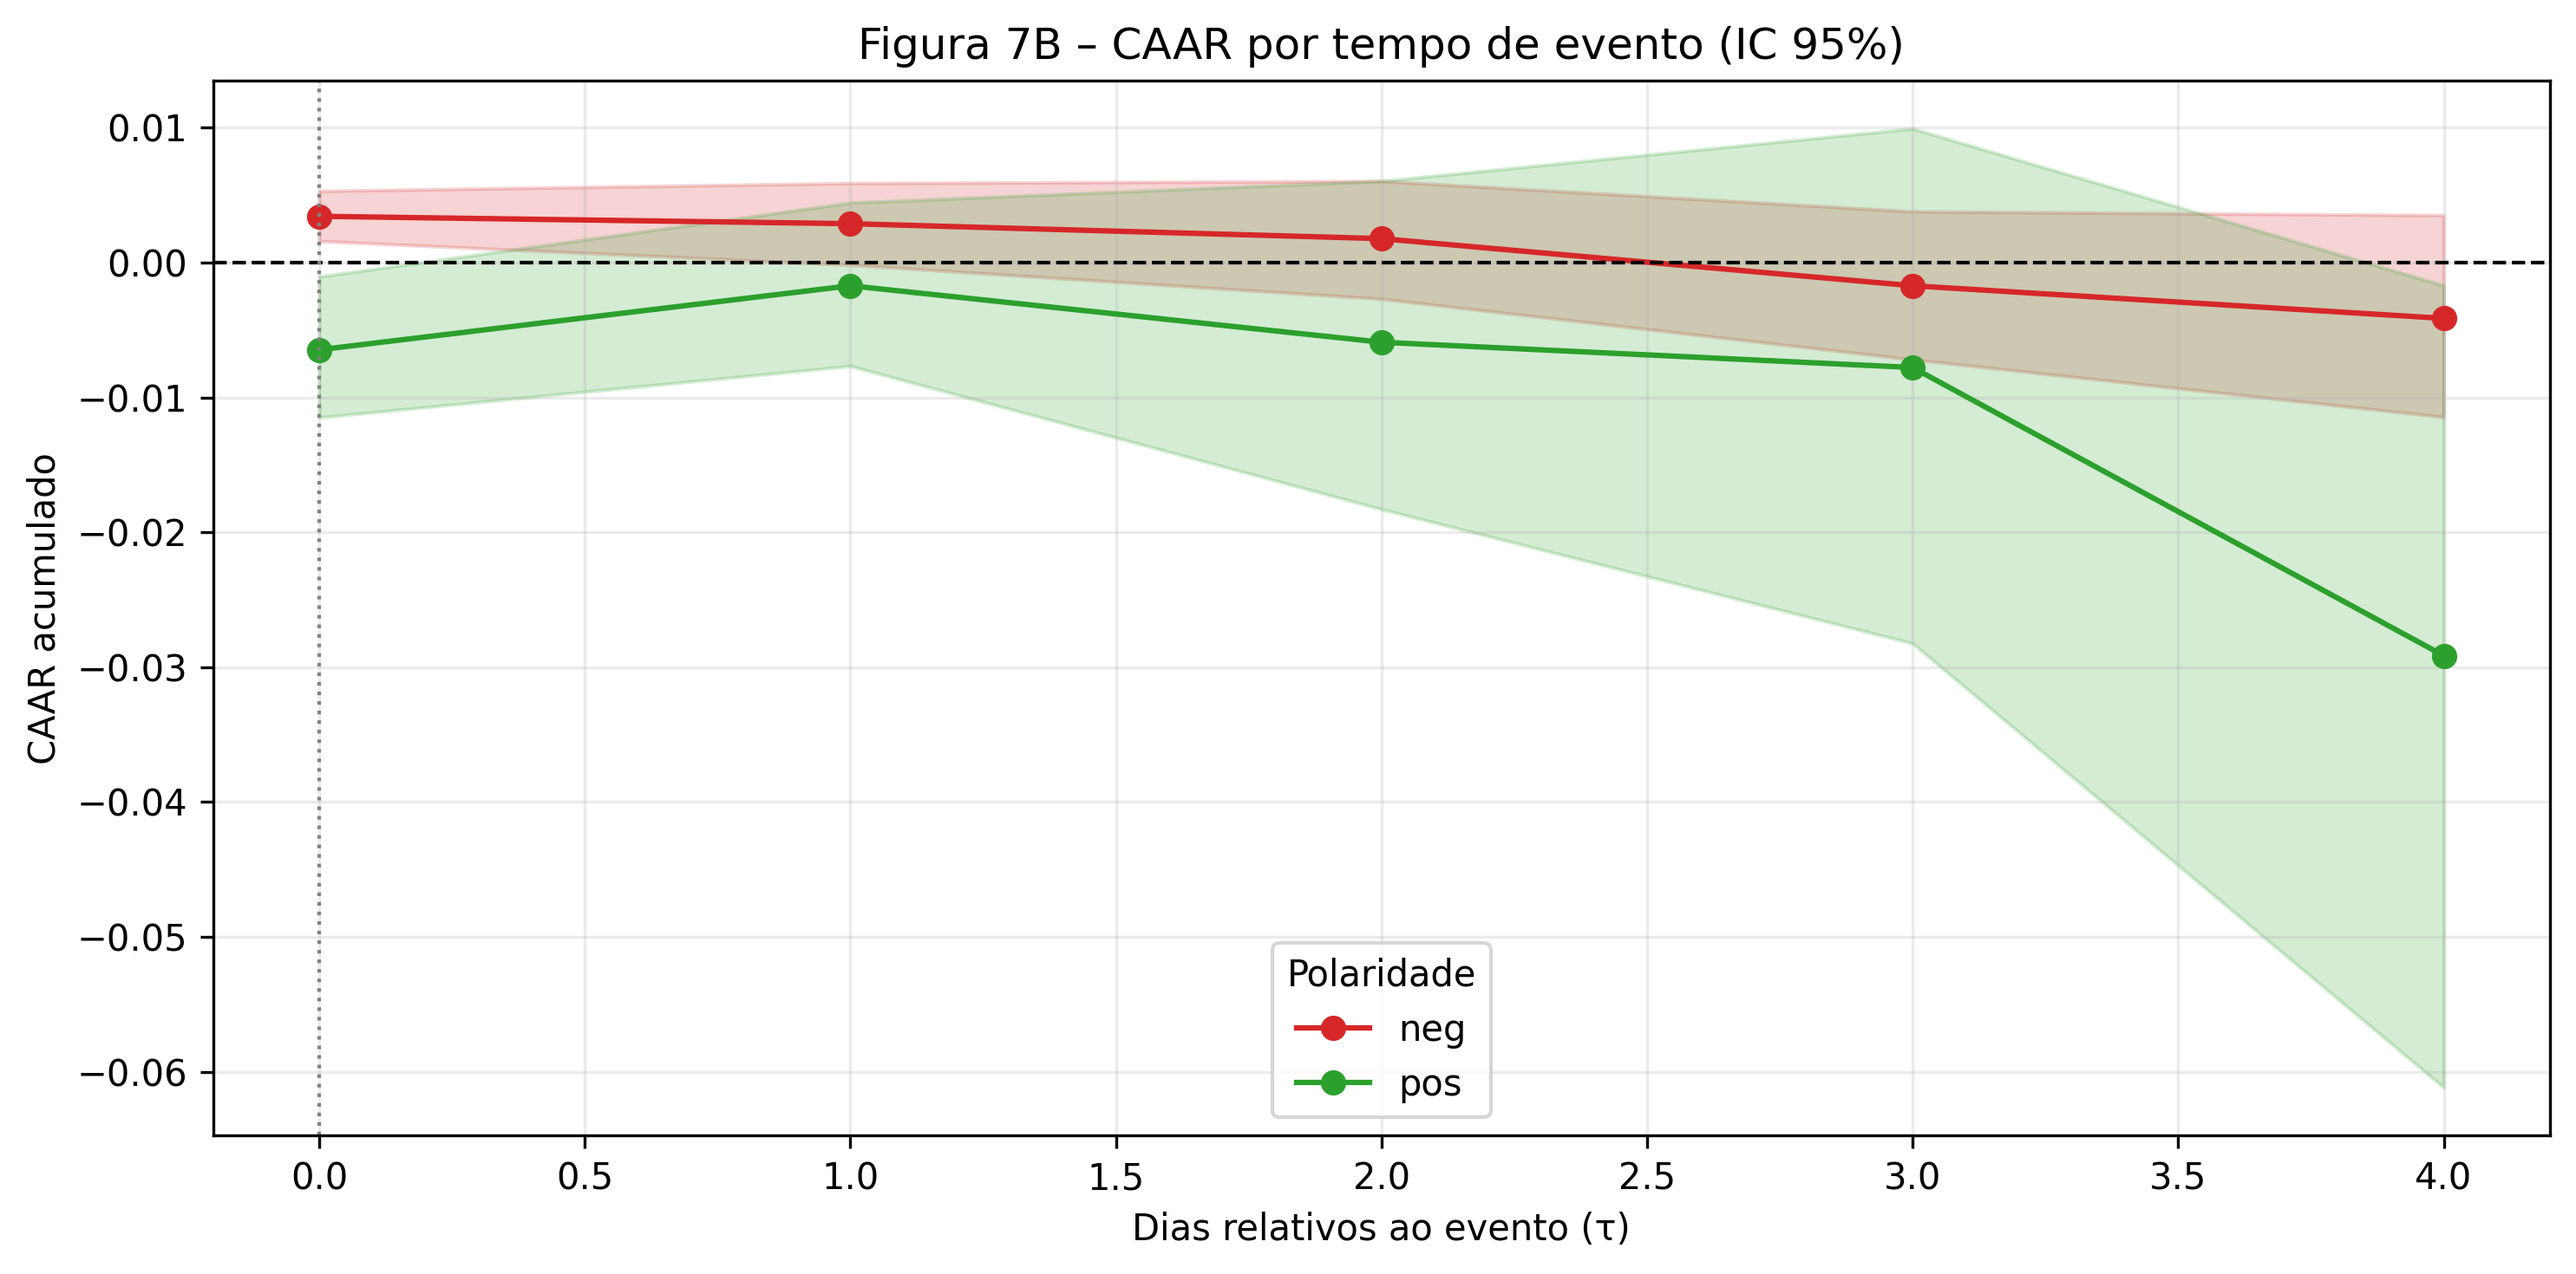
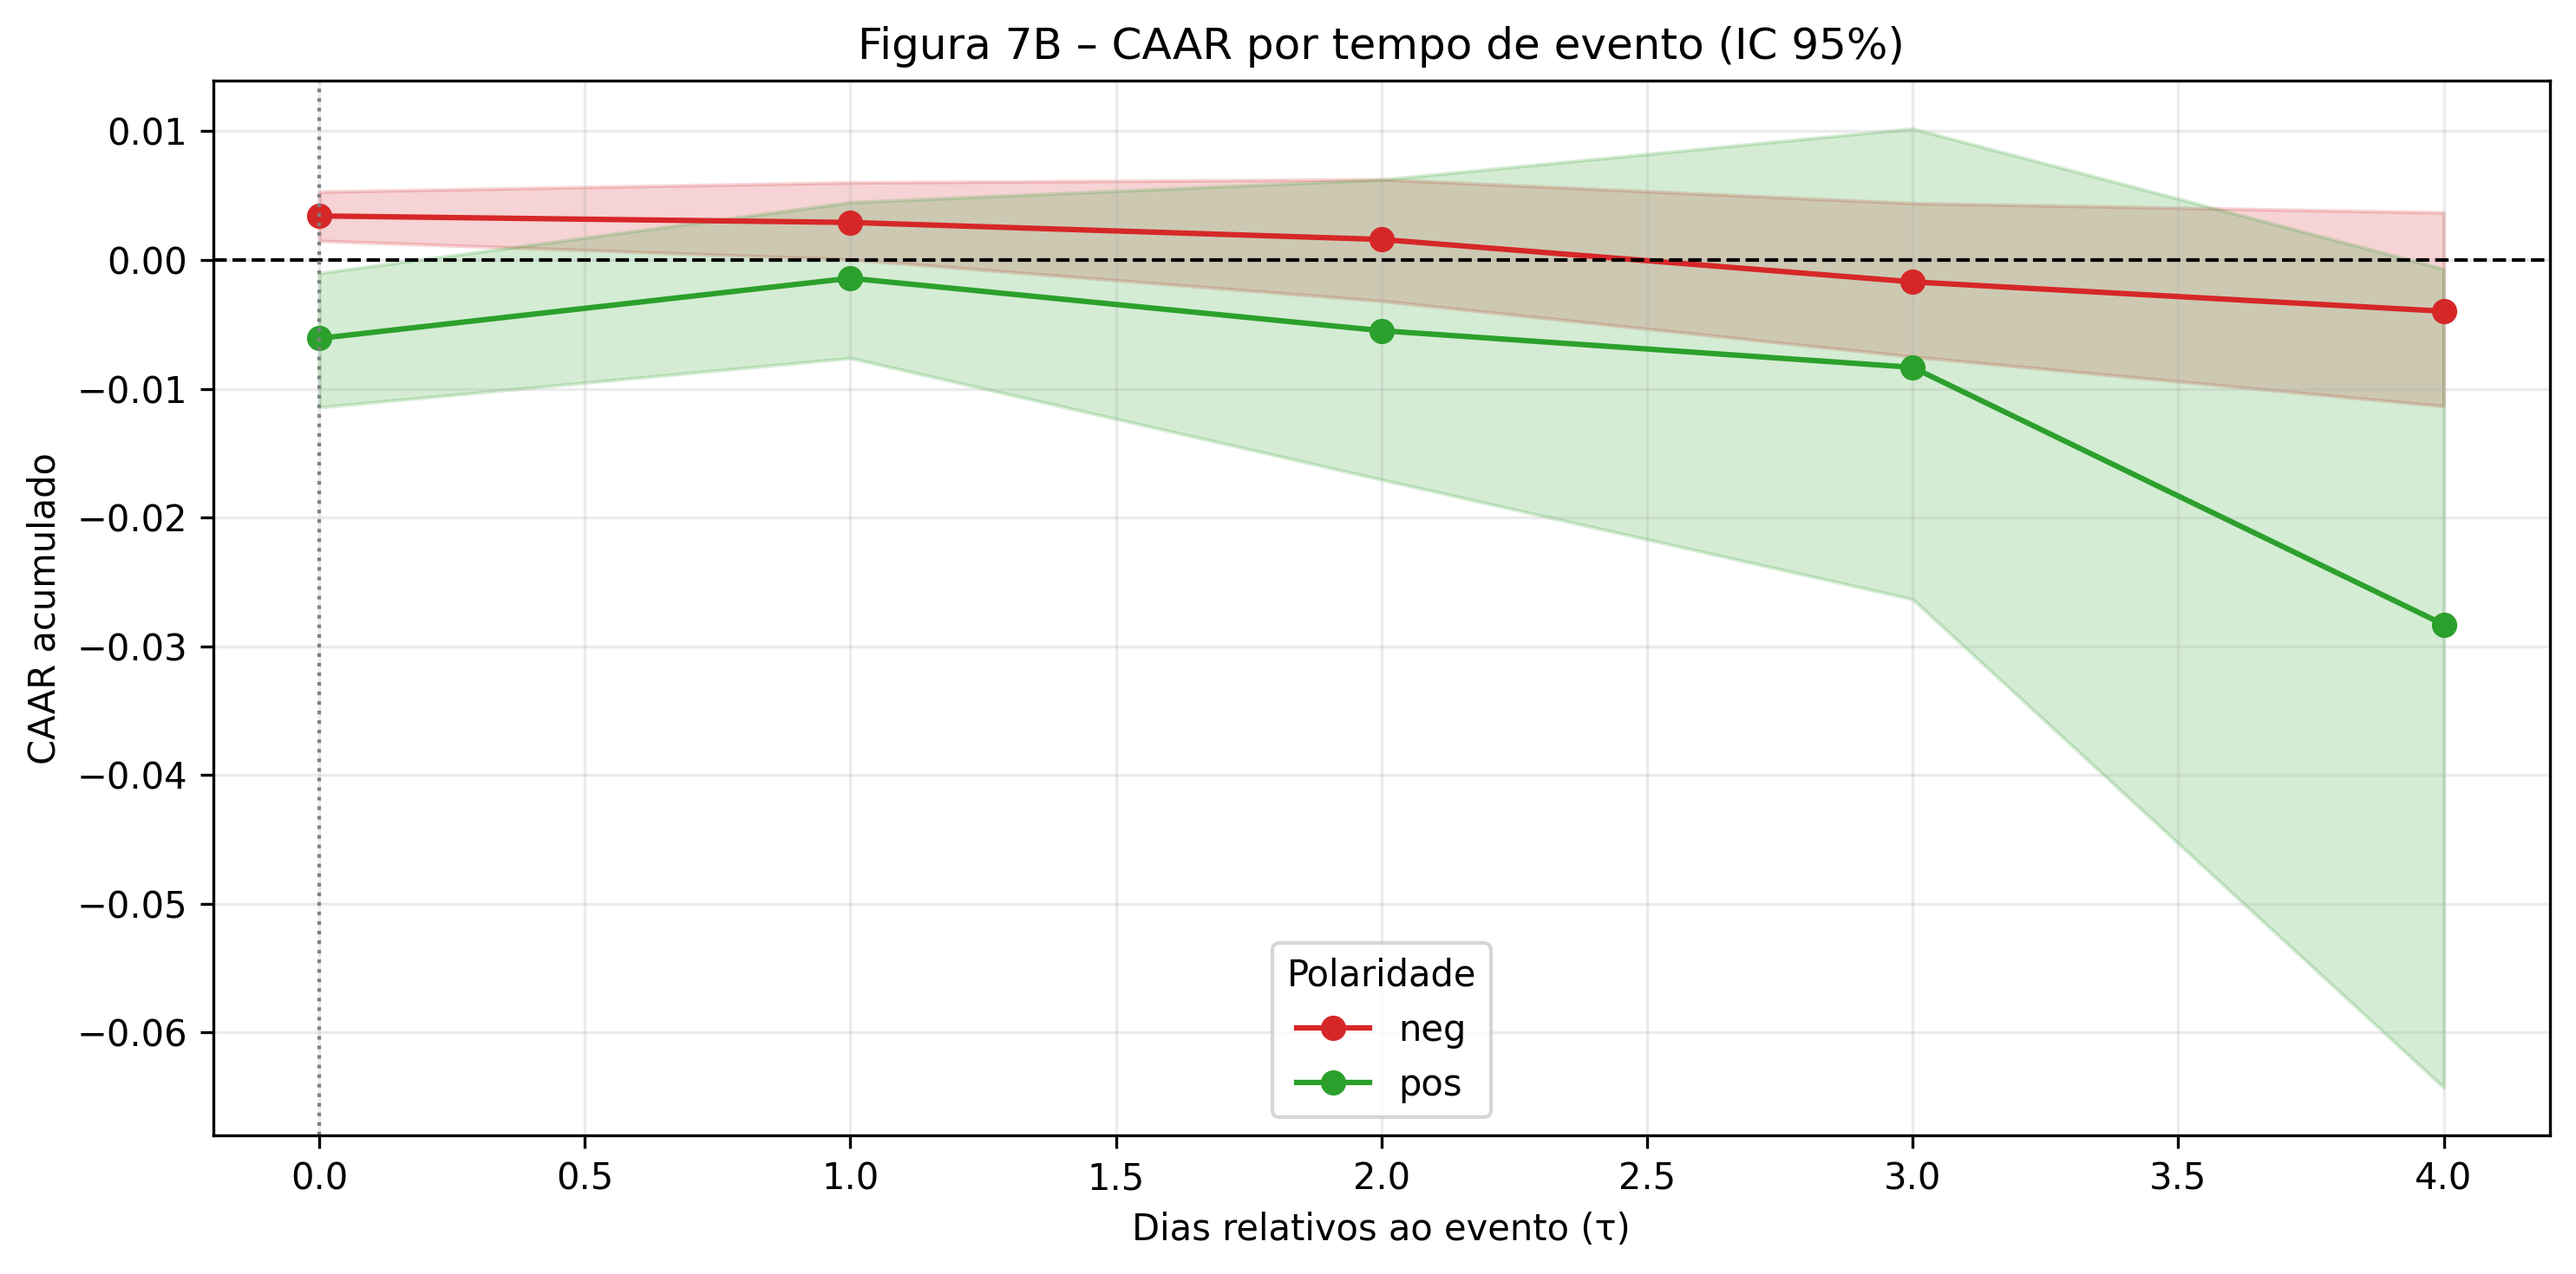
fix(export): force overwrite and validate PNG outputs

diff --git a/scripts/export_tcc_figures.py b/scripts/export_tcc_figures.py
@@ -21,7 +21,7 @@ import numpy as np  # noqa: E402
 import pandas as pd  # noqa: E402
 
 BASE_DATA = Path(r"C:\TCC_USP\data_processed")
-OUTPUT_DIR = Path(__file__).resolve().parents[1] / "reports" / "figures"
+OUTPUT_DIR = (Path(__file__).resolve().parents[1] / "reports" / "figures").resolve()
 FORCE_OVERWRITE = True
 OFFICIAL_START = pd.Timestamp("2018-01-02")
 OFFICIAL_END = pd.Timestamp("2024-12-31")
